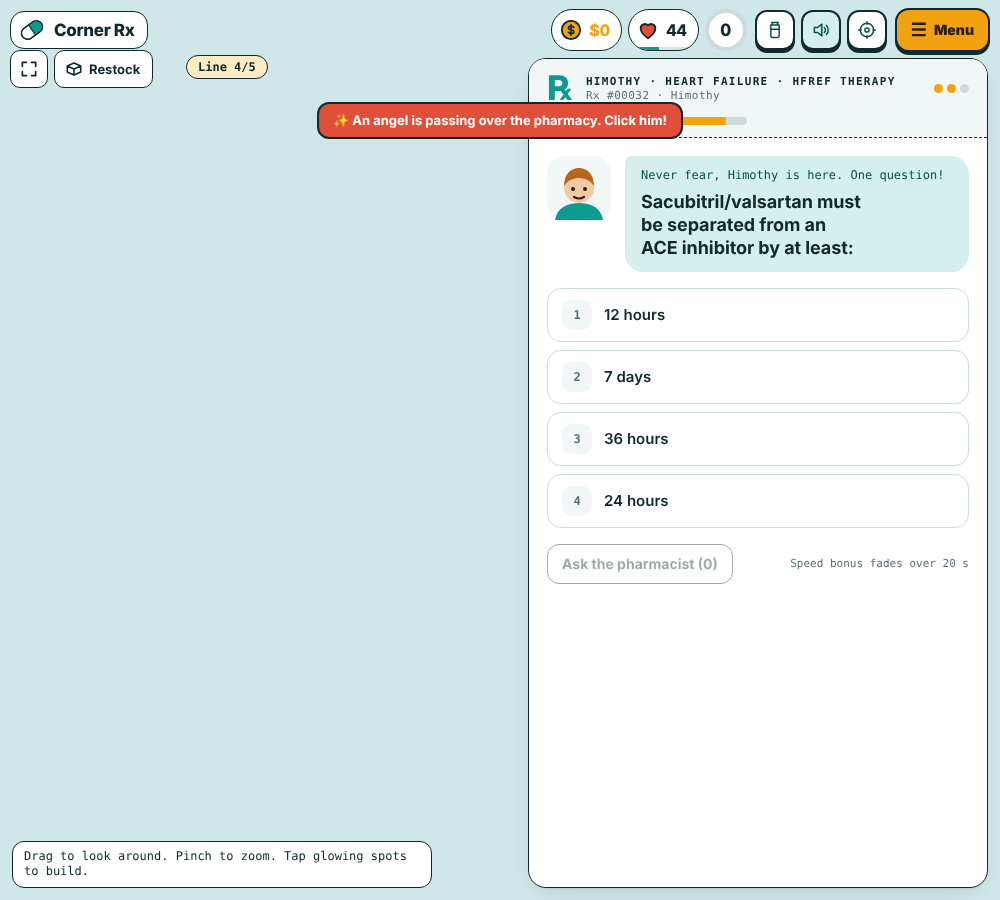
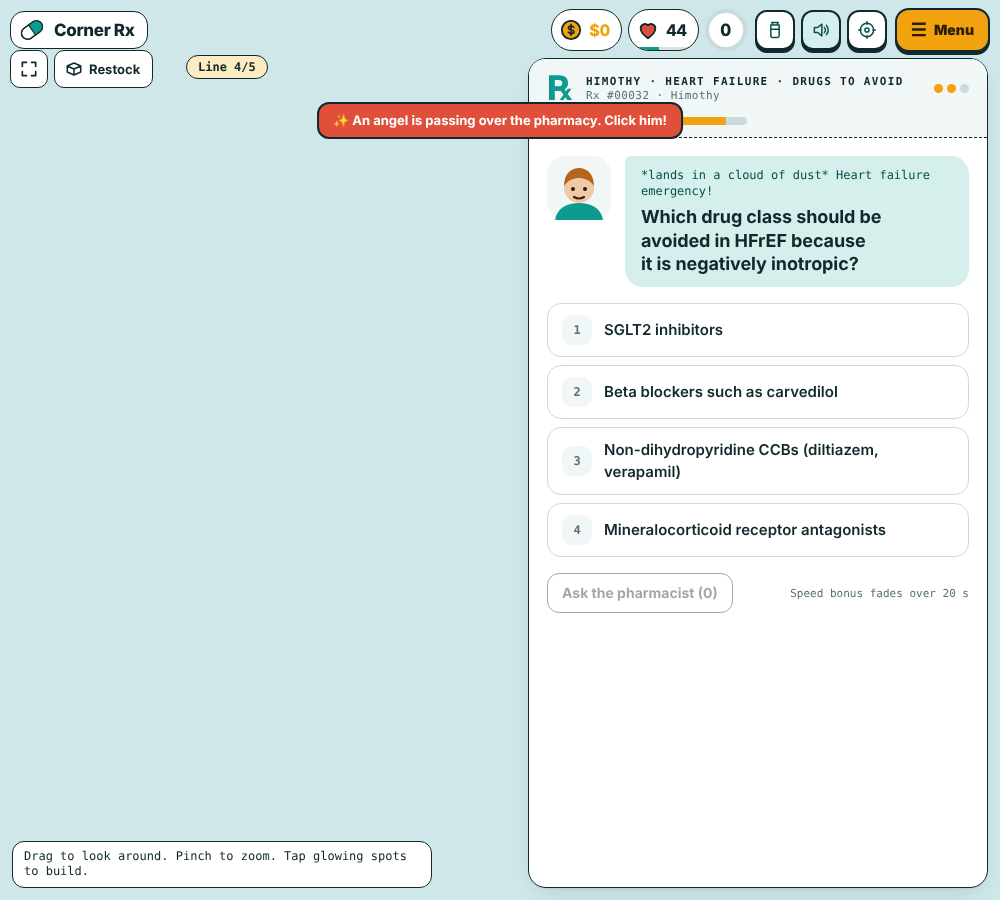
v96: hide the ? marker during Himothy speech, add real-3D screenshot script
Claude-Session: https://claude.ai/code/session_01BE1RNrBxaJ5AyXF1Zsqqsk

Changed region(s): [[0.558, 0.1867, 0.992, 0.6844], [0.868, 0.0622, 0.899, 0.0933], [0.806, 0.0622, 0.837, 0.0933]]

diff --git a/src/shot3.js b/src/shot3.js
@@ -1,0 +1,14 @@
+const {chromium}=require('playwright');const S=process.argv[2];const which=process.argv[3];const n=+process.argv[4],gap=+process.argv[5];
+(async()=>{const b=await chromium.launch({args:['--use-angle=swiftshader','--use-gl=angle','--enable-unsafe-swiftshader','--ignore-gpu-blocklist']});
+const p=await b.newPage({viewport:{width:1100,height:800}});const errs=[];p.on('pageerror',e=>errs.push(e.message));
+await p.route('**/three.min.js',r=>r.fulfill({path:S+'/real/three.min.js',contentType:'text/javascript'}));
+await p.addInitScript(()=>{if(!localStorage.getItem('cornerRx.v1'))localStorage.setItem('cornerRx.v1',JSON.stringify({me:{done:true,name:'T',look:{}},served:30,correct:25,tutDone:true,playSec:999,set:{ahead:true,ahead3:true}}))});
+await p.goto('file://'+process.cwd()+'/corner-rx.html?dev=1');await p.waitForTimeout(3000);
+await p.evaluate(()=>document.querySelectorAll('.tour,.unlock').forEach(e=>e.remove()));
+await p.evaluate(w=>document.querySelector('[data-act="'+w+'"]').click(),which);
+for(let i=0;i<n;i++){
+ await p.evaluate(()=>{const d=window.__rxDbg();document.querySelectorAll('.tour,.unlock').forEach(e=>e.remove());
+  if(d.cur&&!d.cur.done&&d.cur.opts){const k=d.cur.opts.findIndex(o=>o.ok);const el=document.querySelector('.opt[data-i="'+k+'"]');el&&el.click()}
+  else{const nb=document.querySelector('#nextbtn');nb&&nb.click()}});
+ await p.waitForTimeout(gap);await p.screenshot({path:S+'/shots/'+which+'_'+String(i).padStart(2,'0')+'.png'})}
+console.log('errs',errs);await b.close()})();

diff --git a/index.html b/index.html
@@ -4131,6 +4131,7 @@ const World = (function () {
     for (let i = fpXs.length - 1; i >= 0; i--) { const x = fpXs[i]; x.t += 0.016; if (x.t > 1.4 || !fpT) { x.el.remove(); fpXs.splice(i, 1); } else place(x.el, x.c.x, x.c.y, x.c.z); }
     CLICK.forEach(id => place(tags[id], BASE[id][0], TAGY[id], BASE[id][2]));
     if (cur) { place(bubEl, cur.g.position.x, 3.0 + Math.abs(Math.sin(time * 3)) * 0.1, cur.g.position.z); }
+    if (bubEl) bubEl.style.visibility = (himH || himAsc) ? 'hidden' : '';
   }
 
   function applyTheme() {
@@ -7622,7 +7623,7 @@ const World = (function () {
       <div class="btnrow"><button type="button" class="btn go" data-act="back">Back to the pharmacy</button></div></div>`;
   }
 
-  const GAME_VERSION = 95;
+  const GAME_VERSION = 96;
   const b64u = (u8) => { let s = ''; for (let i = 0; i < u8.length; i += 0x8000) s += String.fromCharCode.apply(null, u8.subarray(i, i + 0x8000)); return btoa(s).replace(/\+/g, '-').replace(/\//g, '_').replace(/=+$/, ''); };
   const unb64u = (t) => { const s = atob(t.replace(/-/g, '+').replace(/_/g, '/')), u = new Uint8Array(s.length); for (let i = 0; i < s.length; i++) u[i] = s.charCodeAt(i); return u; };
   const chk = (t) => { let h = 2166136261; for (let i = 0; i < t.length; i++) { h ^= t.charCodeAt(i); h = Math.imul(h, 16777619); } return (h >>> 0).toString(36); };

diff --git a/src/shot1.js b/src/shot1.js
@@ -1,0 +1,10 @@
+const {chromium}=require('playwright');const S=process.argv[2];
+(async()=>{const b=await chromium.launch({args:['--use-angle=swiftshader','--use-gl=angle','--enable-unsafe-swiftshader','--ignore-gpu-blocklist']});
+const p=await b.newPage({viewport:{width:1100,height:800}});const errs=[];p.on('pageerror',e=>errs.push(e.message));p.on('console',m=>{if(m.type()==='error')errs.push('c:'+m.text().slice(0,150))});
+await p.route('**/three.min.js',r=>r.fulfill({path:S+'/real/three.min.js',contentType:'text/javascript'}));
+await p.addInitScript(()=>{if(!localStorage.getItem('cornerRx.v1'))localStorage.setItem('cornerRx.v1',JSON.stringify({me:{done:true,name:'T',look:{}},served:30,correct:25,tutDone:true,playSec:999,set:{ahead:true,ahead3:true}}))});
+await p.goto('file://'+process.cwd()+'/corner-rx.html?dev=1');await p.waitForTimeout(3500);
+await p.evaluate(()=>document.querySelectorAll('.tour').forEach(e=>e.remove()));
+console.log('webgl',await p.evaluate(()=>{const c=document.createElement('canvas');return !!(c.getContext('webgl2')||c.getContext('webgl'))}),'canvases',await p.evaluate(()=>document.querySelectorAll('canvas').length));
+await p.screenshot({path:S+'/shots/base.png'});
+console.log('errs',errs);await b.close()})();

diff --git a/src/shot3d.js b/src/shot3d.js
@@ -1,0 +1,10 @@
+const {chromium}=require('playwright');const S=process.argv[2];const which=process.argv[3];const n=+process.argv[4],gap=+process.argv[5];
+(async()=>{const b=await chromium.launch({args:['--use-angle=swiftshader','--use-gl=angle','--enable-unsafe-swiftshader','--ignore-gpu-blocklist']});
+const p=await b.newPage({viewport:{width:1100,height:800}});const errs=[];p.on('pageerror',e=>errs.push(e.message));
+await p.route('**/three.min.js',r=>r.fulfill({path:(process.env.THREE_JS||S+'/real/three.min.js'),contentType:'text/javascript'}));
+await p.addInitScript(()=>{if(!localStorage.getItem('cornerRx.v1'))localStorage.setItem('cornerRx.v1',JSON.stringify({me:{done:true,name:'T',look:{}},served:30,correct:25,tutDone:true,playSec:999,set:{ahead:true,ahead3:true}}))});
+await p.goto('file://'+process.cwd()+'/corner-rx.html?dev=1');await p.waitForTimeout(3000);
+await p.evaluate(()=>document.querySelectorAll('.tour,.unlock').forEach(e=>e.remove()));
+await p.evaluate(w=>document.querySelector('[data-act="'+w+'"]').click(),which);
+for(let i=0;i<n;i++){await p.waitForTimeout(gap);await p.screenshot({path:(process.env.SHOT_DIR||S+'/shots')+'/'+which+'_'+String(i).padStart(2,'0')+'.png'})}
+console.log('errs',errs);await b.close()})();

diff --git a/src/shot4.js b/src/shot4.js
@@ -1,0 +1,10 @@
+const {chromium}=require('playwright');const S=process.argv[2];const which=process.argv[3];const n=+process.argv[4],gap=+process.argv[5];
+(async()=>{const b=await chromium.launch({args:['--use-angle=swiftshader','--use-gl=angle','--enable-unsafe-swiftshader','--ignore-gpu-blocklist']});
+const p=await b.newPage({viewport:{width:1100,height:800}});const errs=[];p.on('pageerror',e=>errs.push(e.message));
+await p.route('**/three.min.js',r=>r.fulfill({path:S+'/real/three.min.js',contentType:'text/javascript'}));
+await p.addInitScript(()=>{if(!localStorage.getItem('cornerRx.v1'))localStorage.setItem('cornerRx.v1',JSON.stringify({me:{done:true,name:'T',look:{}},served:30,correct:25,tutDone:true,playSec:999,set:{ahead:true,ahead3:true}}))});
+await p.goto('file://'+process.cwd()+'/corner-rx.html?dev=1');await p.waitForTimeout(3000);
+await p.evaluate(()=>document.querySelectorAll('.tour,.unlock').forEach(e=>e.remove()));
+await p.evaluate(w=>document.querySelector('[data-act="'+w+'"]').click(),which);
+for(let i=0;i<n;i++){await p.waitForTimeout(gap);await p.screenshot({path:S+'/shots/'+which+'_'+String(i).padStart(2,'0')+'.png'})}
+console.log('errs',errs);await b.close()})();

diff --git a/src/shot2.js b/src/shot2.js
@@ -1,0 +1,10 @@
+const {chromium}=require('playwright');const S=process.argv[2];const which=process.argv[3];const times=process.argv[4].split(',').map(Number);
+(async()=>{const b=await chromium.launch({args:['--use-angle=swiftshader','--use-gl=angle','--enable-unsafe-swiftshader','--ignore-gpu-blocklist']});
+const p=await b.newPage({viewport:{width:1100,height:800}});const errs=[];p.on('pageerror',e=>errs.push(e.message));
+await p.route('**/three.min.js',r=>r.fulfill({path:S+'/real/three.min.js',contentType:'text/javascript'}));
+await p.addInitScript(()=>{if(!localStorage.getItem('cornerRx.v1'))localStorage.setItem('cornerRx.v1',JSON.stringify({me:{done:true,name:'T',look:{}},served:30,correct:25,tutDone:true,playSec:999,set:{ahead:true,ahead3:true}}))});
+await p.goto('file://'+process.cwd()+'/corner-rx.html?dev=1');await p.waitForTimeout(3000);
+await p.evaluate(()=>document.querySelectorAll('.tour,.unlock').forEach(e=>e.remove()));
+await p.evaluate(w=>document.querySelector('[data-act="'+w+'"]').click(),which);
+let t0=0;for(const t of times){await p.waitForTimeout(t-t0);t0=t;await p.screenshot({path:S+'/shots/'+which+'_'+t+'.png'})}
+console.log('errs',errs);await b.close()})();

diff --git a/src/game.js b/src/game.js
@@ -1574,7 +1574,7 @@
   function maybeTour() { if (S.me.done && !S.tutDone && !tourEl) showTour(); }
   /* ---- save code: the whole save as one long code, to move progress between devices or keep a backup ---- */
 /*@EXT@*/
-  const GAME_VERSION = 95;
+  const GAME_VERSION = 96;
   const b64u = (u8) => { let s = ''; for (let i = 0; i < u8.length; i += 0x8000) s += String.fromCharCode.apply(null, u8.subarray(i, i + 0x8000)); return btoa(s).replace(/\+/g, '-').replace(/\//g, '_').replace(/=+$/, ''); };
   const unb64u = (t) => { const s = atob(t.replace(/-/g, '+').replace(/_/g, '/')), u = new Uint8Array(s.length); for (let i = 0; i < s.length; i++) u[i] = s.charCodeAt(i); return u; };
   const chk = (t) => { let h = 2166136261; for (let i = 0; i < t.length; i++) { h ^= t.charCodeAt(i); h = Math.imul(h, 16777619); } return (h >>> 0).toString(36); };

diff --git a/src/world.js b/src/world.js
@@ -1698,6 +1698,7 @@ const World = (function () {
     for (let i = fpXs.length - 1; i >= 0; i--) { const x = fpXs[i]; x.t += 0.016; if (x.t > 1.4 || !fpT) { x.el.remove(); fpXs.splice(i, 1); } else place(x.el, x.c.x, x.c.y, x.c.z); }
     CLICK.forEach(id => place(tags[id], BASE[id][0], TAGY[id], BASE[id][2]));
     if (cur) { place(bubEl, cur.g.position.x, 3.0 + Math.abs(Math.sin(time * 3)) * 0.1, cur.g.position.z); }
+    if (bubEl) bubEl.style.visibility = (himH || himAsc) ? 'hidden' : '';
   }
 
   function applyTheme() {

diff --git a/CLAUDE.md b/CLAUDE.md
@@ -25,5 +25,5 @@ Node + Playwright, run from `src/`: `node te38.js` etc. They load `corner-rx.htm
 ## Conventions
 - Wrong answers must not be arguably correct (for example an indication shared with the right drug). Keep the correct answer from being the longest option every time.
 - Questions use plain language; no em dashes.
-- 3D has not been verified visually from the build environment; check changes by playing with `?dev=1`.
+- 3D can be checked visually in the build environment: the user attaches `three.min.js` (r128, from cdnjs), then run `THREE_JS=/path/three.min.js SHOT_DIR=/some/dir node shot3d.js <dir-arg> dev-him-asc 12 900` from `src/` (args: ignored, dev button id, frame count, ms between frames; the first arg is only the scratchpad fallback path). It uses headless Chromium with SwiftShader. The sandbox cannot download three.js itself. Still confirm by playing with `?dev=1`.
 - Saves live in the browser (`localStorage`); keep save-format changes backward compatible.
